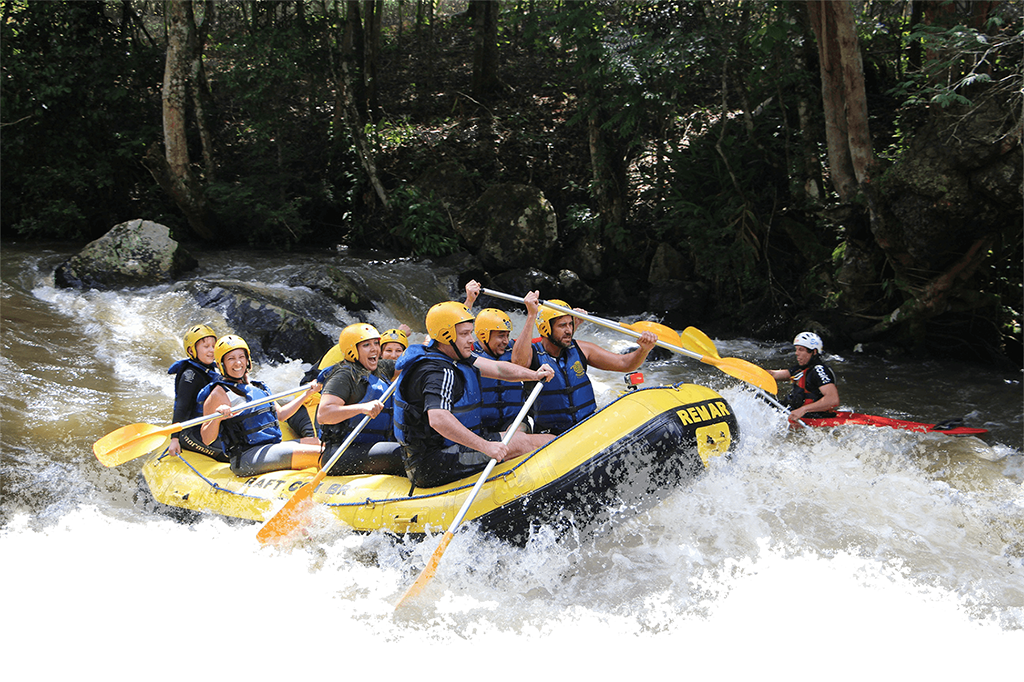
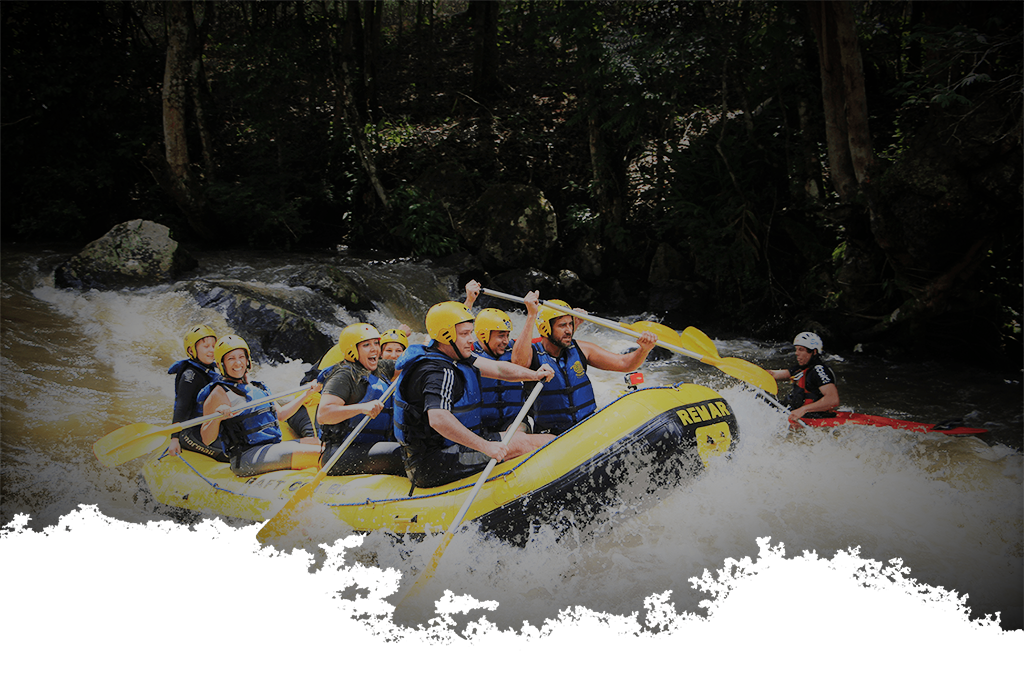
Rafting site finishing touches

diff --git a/wwr/styles/style.css b/wwr/styles/style.css
@@ -14,6 +14,10 @@ main section{
     width: 80px;
     padding-top: 10px;
 }
+nav {
+    display: flex;
+    justify-content: space-around;
+}
 nav a {
     text-align: center;
     color: #363d45;
@@ -24,18 +28,34 @@ nav a:hover {
     background-color: #363d45;
     color: #a1b5d8;
 }
+#hero {
+    display: grid;
+    grid-template-columns: 1fr 3fr 1fr;
+    margin-top: -100px;
+}
+#hero-box {
+    grid-column: 1/4;
+    grid-row: 1/3;
+    z-index: -1;
+}
 #hero-img {
     width: 100%;
 }
+#hero-msg {
+    grid-column: 2/3;
+    grid-row: 1/2;
+    margin-top: 100px;
+}
 #hero-msg h1, #hero-msg h4 {
     text-align: center;
+    color: #fffcf7;
 }
 .button-box {
     text-align: center;
 }
 #background {
     height: 725px;
-    background-color: #fffcf7;
+    background-color: #d3e4c5;
 }
 body {
     background-color: #fffcf7;
@@ -48,7 +68,13 @@ h2 {
     margin: 0;
 }
 header {
+    display: grid;
+    grid-template-columns: 150px auto;
     background-color: #d3e4c5;
+}
+.home-grid {
+    display: grid;
+    grid-template-columns: repeat(10, 1fr);
 }
 .home-title {
     font-family: "Rowdies", Helvetica, sans-serif;
@@ -73,11 +99,6 @@ h4 {
     background-color: #363d45;
     color: #d3e4c5;
 }
-.msg {
-    line-height: 1.5em;
-    background-color: #363d45;
-    padding: 35px;
-}
 .msg h2{
     color: #d3e4c5;
 }
@@ -92,6 +113,9 @@ footer {
     color: #363d45;
     padding: 25px 50px;
     margin-top: 200px;
+    display: flex;
+    justify-content: space-around;
+    align-items: center;
 }
 footer .social img {
     padding-top: 15px;
@@ -110,15 +134,96 @@ footer p {
 footer p a:hover {
     text-decoration: underline;
 }
-#logo-link {
+#logo_link {
     padding-top: 5px;
+    justify-self: center;
+    align-self: center;
 }
 .rivers-card, .camping-card, .rapids-card {
     margin: 200px 0;
 }
+.rivers-card {
+    grid-column: 2/4;
+    grid-row: 2/3;
+}
+.camping-card {
+    grid-column: 5/7;
+    grid-row: 2/3;
+}
+.rapids-card {
+    grid-column: 8/10;
+    grid-row: 2/3;
+}
+#background {
+    grid-column: 1/11;
+    grid-row: 4/9;
+}
+.mountains {
+    grid-column: 2/7;
+    grid-row: 5/8;
+    box-shadow: 5px 5px 10px #6f7364;
+}
 .card-img {
     border: 10px solid #363d45;
+    transition: transform .5s;
+    box-shadow: 5px 5px 10px #6f7364;
+}
+.card-img:hover {
+    opacity: .9;
+    transform: scale(1.1);
+}
+.msg {
+    line-height: 1.5em;
+    background-color: #363d45;
+    padding: 35px;
+    grid-column: 6/10;
+    grid-row: 6/7;
+    box-shadow: 5px 5px 10px #6f7364;
+}
+.card-img, .mountains {
+    width: 100%;
 }
 main section img {
     box-sizing: border-box;
+}
+@media screen and (max-width: 900px) {
+    #hero, .home-grid {
+        display: block;
+        height: auto;
+    }
+    nav, footer {
+        flex-direction: column;
+    }
+    nav a {
+        display: block;
+        padding: 15px;
+    }
+    #hero {
+        margin-top: 0;
+    }
+    #hero-msg {
+        margin-top: 0;
+    }
+    #hero-msg h4 {
+        display: none;
+    }
+    .home-title {
+        font-size: 25px;
+        color: #6f7364;
+    }
+    .rivers-card, .camping-card, .rapids-card { 
+        margin: 50px auto;
+        width: 60%;
+    }
+    #background {
+        display: none;
+    }
+    .mountains, .msg {
+        width: 80%;
+        display: block;
+        margin: 0 auto;
+    }
+    footer {
+        margin-top: 25px;
+    }
 }

diff --git a/wwr/index.html b/wwr/index.html
@@ -38,7 +38,7 @@
                 <img class="icon" src="images/river_icon.png" alt="river icon">
                 <h2>Rivers</h2>
             </section>
-            <section class="rapids-card">
+            <section class="camping-card">
                 <img class="card-img" src="images/camping.jpg" alt="tent in mountains">
                 <img class="icon" src="images/fire_icon.png" alt="fire icon">
                 <h2>Camping</h2>
